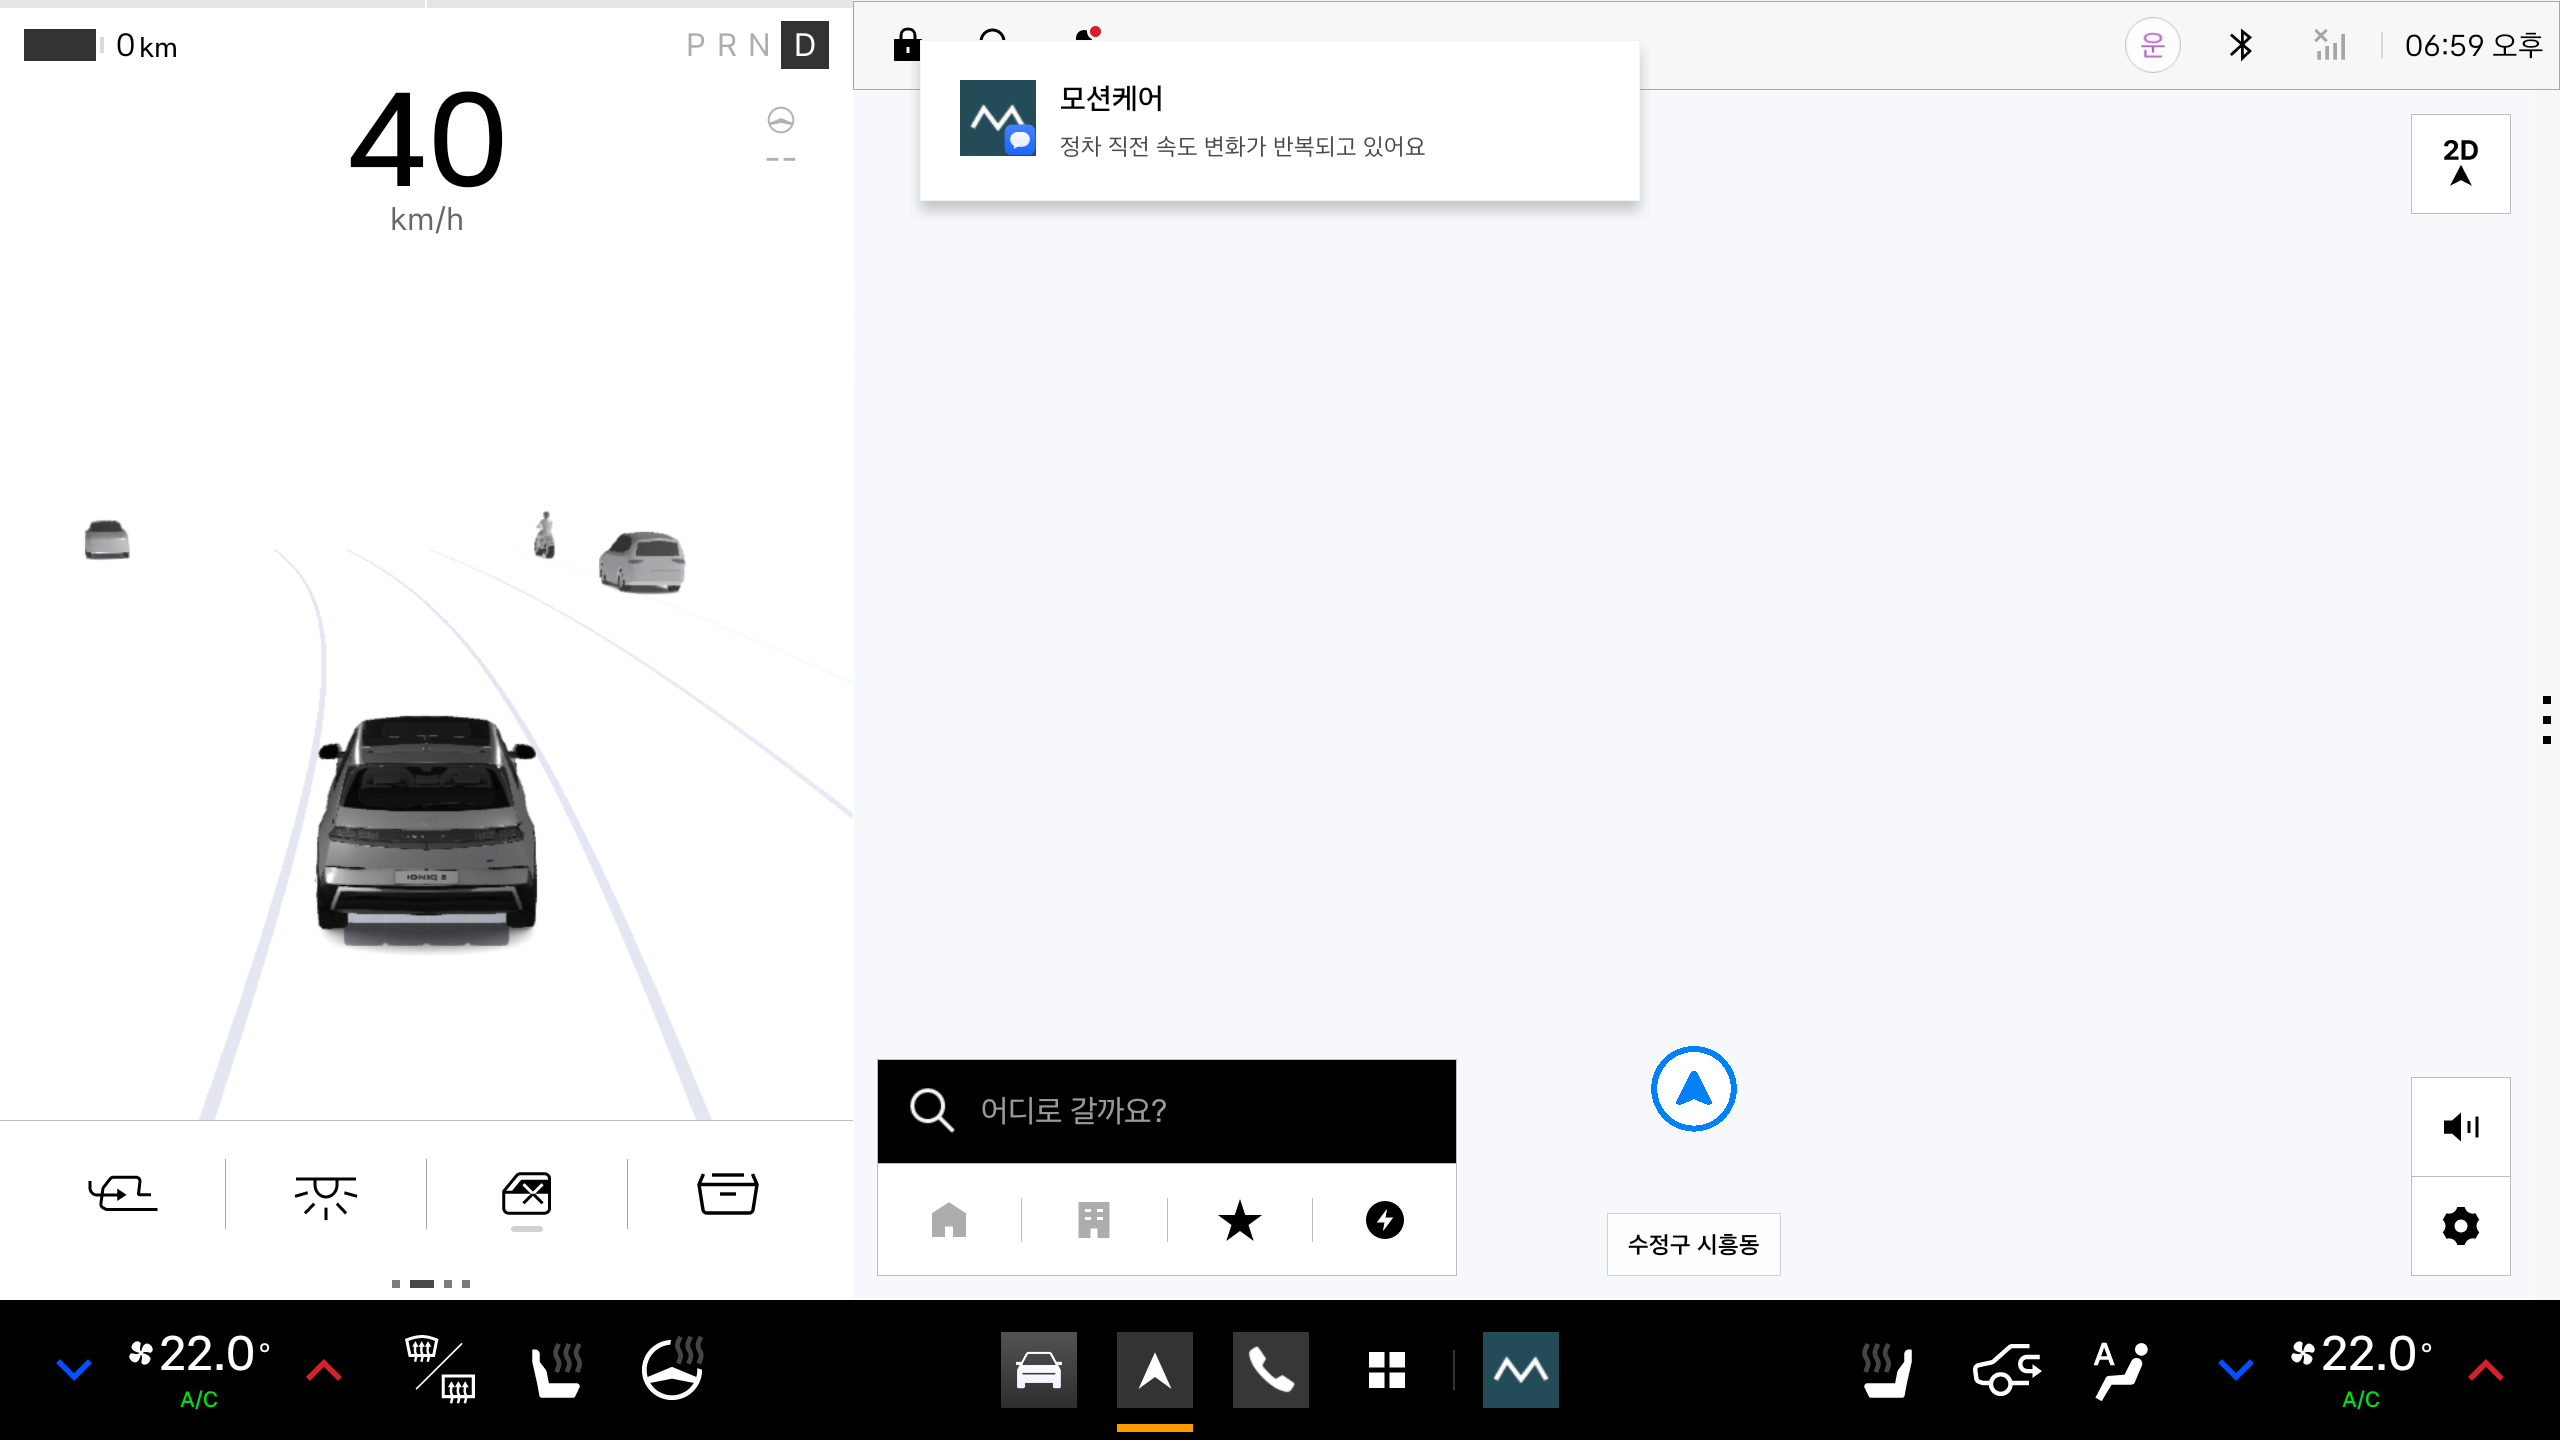
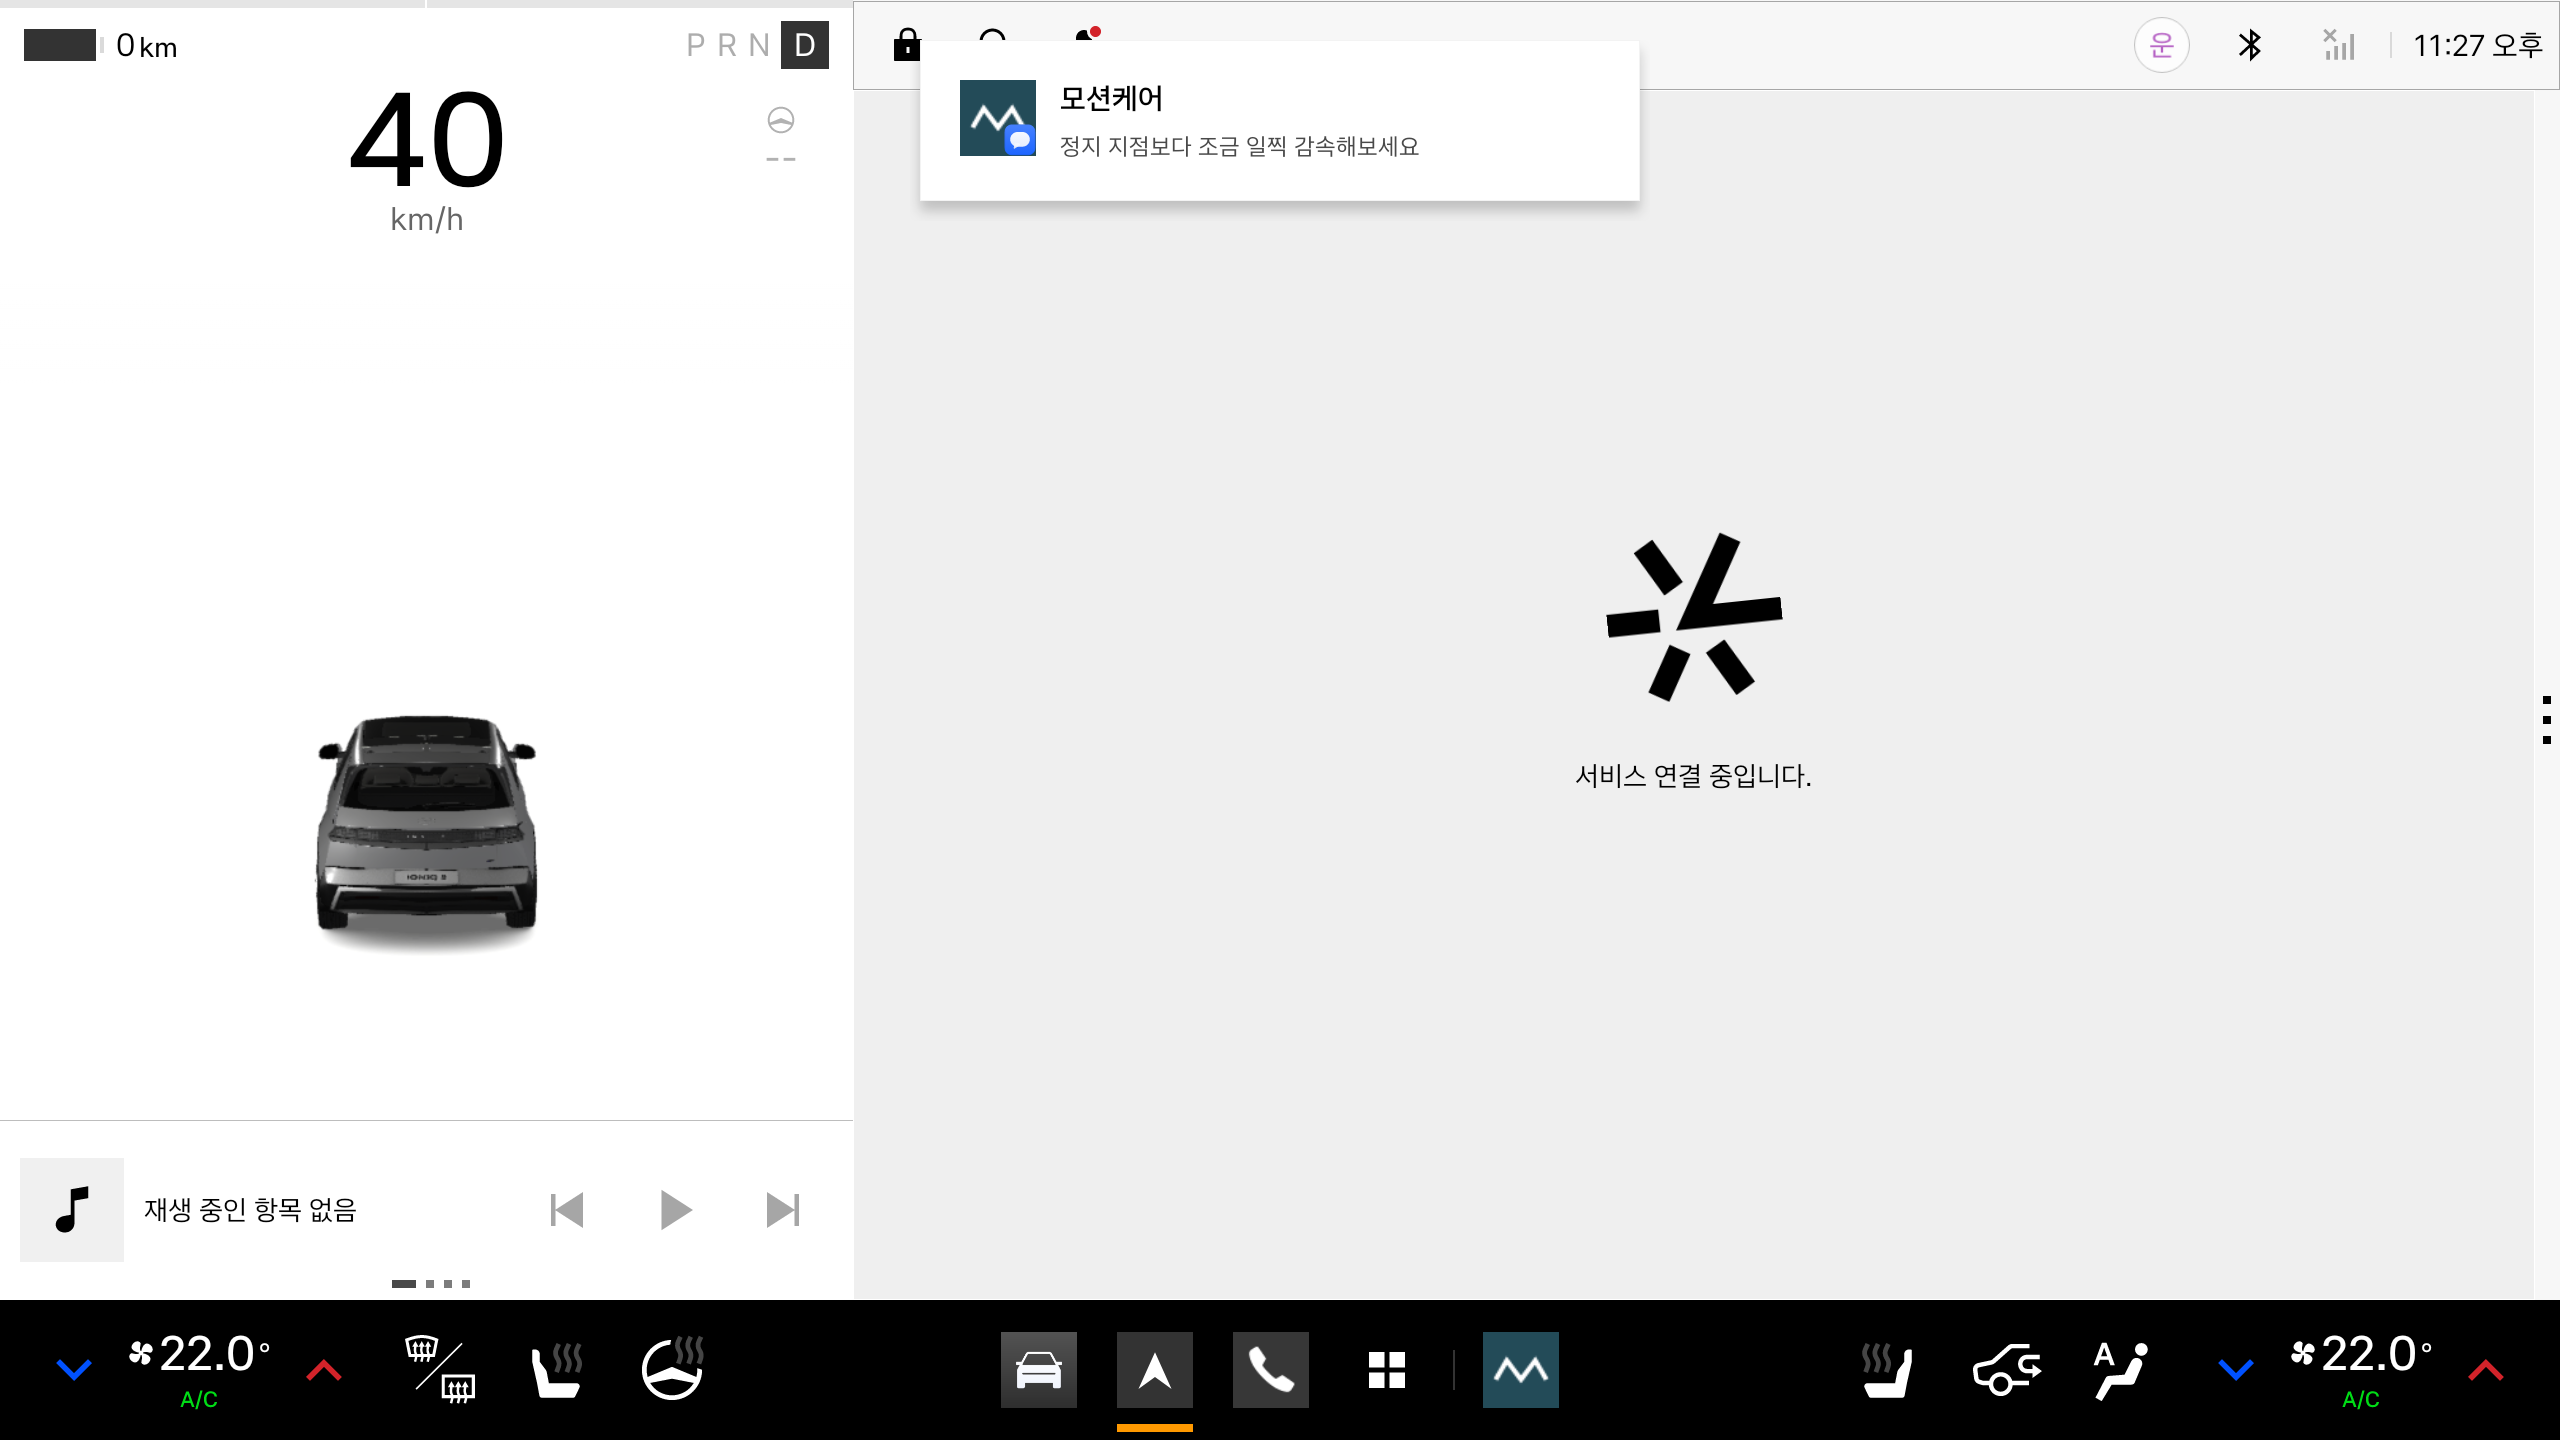
feat: 주행 중 카드를 데이터 기반 권장 문구로 변경 (#8)

diff --git a/feature/driving/src/main/java/dev/motioncare/feature/driving/guidance/GuidanceCards.kt b/feature/driving/src/main/java/dev/motioncare/feature/driving/guidance/GuidanceCards.kt
@@ -23,13 +23,13 @@ private const val NOTIFICATION_ID = 2
 // The system shows the card for about 9 s. Removing it soon after keeps old notes out of the bell.
 private const val CARD_LIFETIME_MS = 15_000L
 
-/** What was observed, not what to do. See docs/guidance-card.md for why cards give no instructions. */
+/** One recommended action for the pattern that repeated. Sources and limits are in docs/guidance-card.md. */
 internal fun guidanceCopy(pattern: DrivingPattern): String = when (pattern) {
-    DrivingPattern.RAPID_START -> "출발 직후 속도 변화가 반복되고 있어요"
-    DrivingPattern.HARD_STOP -> "정차 직전 속도 변화가 반복되고 있어요"
-    DrivingPattern.REPEATED_SPEED_CHANGE -> "가속과 감속이 반복되고 있어요"
-    DrivingPattern.FAST_TURN -> "회전 구간의 좌우 움직임이 반복되고 있어요"
-    DrivingPattern.REPEATED_SWAY -> "좌우 움직임이 반복되고 있어요"
+    DrivingPattern.RAPID_START -> "출발 후 몇 초 동안 천천히 속도를 높여보세요"
+    DrivingPattern.HARD_STOP -> "정지 지점보다 조금 일찍 감속해보세요"
+    DrivingPattern.REPEATED_SPEED_CHANGE -> "앞차와의 간격을 확보해 속도 변화를 줄여보세요"
+    DrivingPattern.FAST_TURN -> "커브에 진입하기 전에 미리 속도를 줄여보세요"
+    DrivingPattern.REPEATED_SWAY -> "핸들을 조금 더 부드럽게 돌려보세요"
 }
 
 /**

diff --git a/feature/driving/src/test/java/dev/motioncare/feature/driving/guidance/GuidanceCopyTest.kt b/feature/driving/src/test/java/dev/motioncare/feature/driving/guidance/GuidanceCopyTest.kt
@@ -20,11 +20,25 @@ class GuidanceCopyTest {
         assertEquals(copies.size, copies.toSet().size)
     }
 
-    @Test fun `cards say what was observed and never give orders or medical claims`() {
+    @Test fun `each card recommends an action for the pattern that repeated`() {
+        val subject = mapOf(
+            DrivingPattern.RAPID_START to "출발",
+            DrivingPattern.HARD_STOP to "정지",
+            DrivingPattern.REPEATED_SPEED_CHANGE to "앞차",
+            DrivingPattern.FAST_TURN to "커브",
+            DrivingPattern.REPEATED_SWAY to "핸들",
+        )
         DrivingPattern.entries.forEach { pattern ->
             val copy = guidanceCopy(pattern)
-            assertTrue(copy, copy.endsWith("있어요"))
-            listOf("해보세요", "하세요", "멀미", "위험", "운전자", "습관").forEach { word ->
+            assertTrue(copy, copy.endsWith("보세요"))
+            assertTrue("$pattern says: $copy", subject.getValue(pattern) in copy)
+        }
+    }
+
+    @Test fun `cards never give orders or medical claims`() {
+        DrivingPattern.entries.forEach { pattern ->
+            val copy = guidanceCopy(pattern)
+            listOf("하세요", "마세요", "멀미", "위험", "운전자", "습관").forEach { word ->
                 assertFalse("$copy contains $word", word in copy)
             }
         }

diff --git a/docs/pleos-emulator/tools/recording_e2e.py b/docs/pleos-emulator/tools/recording_e2e.py
@@ -109,7 +109,7 @@ class CardWatch(threading.Thread):
             # Only the active list counts. Look for the text, not the channel: while the recording notification
             # is up the system keeps a group summary that carries the guidance channel after the card is gone.
             active = shell("dumpsys notification --noredact").split("mArchive=")[0]
-            found = re.search(r"android\.text=String \(([^)]*있어요)\)", active)
+            found = re.search(r"android\.text=String \(([^)]*보세요)\)", active)
             if found:
                 now = time.time()
                 if self.first is None:

diff --git a/docs/verification.md b/docs/verification.md
@@ -122,17 +122,18 @@ python3 scripts/dev.py verify --clean-home
 
 | 검사 | 결과 |
 | --- | --- |
-| 전체 모듈 host 테스트 | 133개, 실패·오류 0 |
+| 전체 모듈 host 테스트 | 134개, 실패·오류 0 |
 | 전체 Android 모듈 lint | 통과 |
 | Android UI 테스트 | 2개 통과 |
 | v1·v2·v3 DB 업그레이드 | Robolectric에서 기존 기록을 유지하고 안내 결과 저장 가능. v3 경로는 조건을 빼면 실패하는 것을 확인 |
 | 표시 실패 | 단위 테스트에서 `FAILED`로 기록되고 기록 저장은 계속되며, 다음 카드를 막지 않음 |
 | Pleos 에뮬레이터 종단 시험 | 내비 위 표시, 대기·생략 저장, 상세 표시, 약 15초 뒤 제거, 스위치 끄기와 유지 통과. [결과](pleos-emulator/README.md#앱의-안내-카드) |
-| 분석 도구와 앱의 판정 | 앞뒤 12건은 시각·값까지 일치. 좌우 2건은 패턴 일치 |
+| 권장 문구 5개 표시 | 40km/h 내비 위에서 모두 한 줄. 정차 직전 문구는 앱, 나머지 4개는 시험 앱으로 확인 |
+| 분석 도구와 앱의 판정 | 앞뒤 12건은 시각·값까지 일치. 좌우 2건은 패턴 일치. 문구 교체 전 측정이며 탐지 코드는 그 뒤 바뀌지 않음 |
 | 공개 주행 데이터 측정 | VED 3,255시간에 규칙 적용. [결과](guidance-card.md#빈도-측정) |
 | 의존성 | `feature:driving`에 `core-ktx` 직접 선언. lockfile 변경 없음 |
 
-실차 신호와 시점, App Market의 `CATEGORY_MESSAGE` 승인, 소리, 경로 안내 화면을 가리는지, 카드의 효과는 확인하지 못했습니다. 알림 권한을 거부했을 때의 `FAILED`는 단위 테스트로만 확인했습니다. 실제 화면에서 본 문구는 5개 중 정차 직전 문구 하나입니다.
+실차 신호와 시점, App Market의 `CATEGORY_MESSAGE` 승인, 소리, 경로 안내 화면을 가리는지, 권장 문구의 안전성과 효과는 확인하지 못했습니다. 알림 권한을 거부했을 때의 `FAILED`는 단위 테스트로만 확인했습니다. 앱이 실제로 띄운 문구는 5개 중 정차 직전 문구 하나입니다.
 
 ## 아직 별도 검증이 필요한 환경
 

diff --git a/docs/design.md b/docs/design.md
@@ -152,7 +152,7 @@ Codex CLI로 생성한 이미지입니다. 시안 안에서는 `/_blob/<ID>`로 
 - **표시:** 앱 창 왼쪽 위에 약 9초 보입니다. 문구는 두 줄(줄당 약 30자)을 넘으면 잘리므로 짧게 씁니다.
 - **연속 안내:** 쌓이지 않고 마지막 안내만 보이므로 앱에서 간격을 조절합니다. 규칙과 문구는 [안내 카드의 근거](guidance-card.md)에 있습니다.
 - **끄기:** 시작 화면의 "주행 중 안내" 스위치로 끕니다. 차량 입력이 있을 때만 보입니다. ([스위치 화면](pleos-emulator/shots/86_guidance_switch.png))
-- **문구:** 차의 움직임만 전하고 행동을 지시하지 않습니다. 행동 조언은 출발 전과 종료 후 화면에 둡니다.
+- **문구:** 탐지한 패턴에 맞는 행동 하나를 "~해보세요"로 권합니다. 핵심 조언은 출발 전과 종료 후 화면에도 넣습니다.
 - **탭 동작:** 넣지 않습니다. `distractionOptimized`를 선언하지 않으면 주행 중 앱 화면이 가려지기 때문입니다.
 - **심사 위험:** 이 방식을 직접 금지한 문구는 찾지 못했지만, Pleos 용어집은 이 알림을 통화·메시지·내비처럼 즉시 인지가 필요한 알림으로 정의합니다. App Market 심사 통과 여부를 알 수 없어 운영사무국에 문의합니다.
 - **막힐 때 대안:** 우리 앱이 보일 때는 앱 안 배너, 내비가 보일 때는 알림 센터로 보냅니다. 전환하기 쉽도록 안내 판단과 표시 코드를 분리합니다.

diff --git a/docs/testing.md b/docs/testing.md
@@ -52,7 +52,7 @@ python3 scripts/dev.py verify --clean-home
 | core/model/src/test | 단위·없음·원본/시각·관찰 값 불변조건 |
 | data/profile/src/test | 프로필 재시작 유지·순서·이름 검증 |
 | data/trip/src/test | 세션 중복/복구/실패, 차량 속도·조향 저장, 조향 실패 시 속도 기록 유지, 앞뒤·좌우 패턴 탐지, 안내 표시·대기·생략 규칙과 ON/OFF 저장, SQLite 재연결·버전 충돌·이전 버전 업그레이드 |
-| feature/driving/src/test | 초기화 재시도·명령 중복 방지·오류 상태, 안내 문구의 길이와 금지 표현 |
+| feature/driving/src/test | 초기화 재시도·명령 중복 방지·오류 상태, 안내 문구의 길이, 패턴별 권장 형식, 금지 표현 |
 | feature/history/src/test | 늦은 이전 조회·실패/없음/재시도, 프로필 로딩·오류·재시도, 패턴 요약과 조향·주행 중 안내 요약 문구 |
 | app/src/androidTest | 샘플 입력·Activity 재생성·완료·평가 복귀, 프로필 화면 이동 |
 

diff --git a/docs/handoff.md b/docs/handoff.md
@@ -45,7 +45,7 @@
 - 알림 권한을 거부하면 `FAILED`로 기록만 남고 화면에 알리지 않습니다. 상세 화면에는 "주행 중 안내 없음"으로 보입니다.
 - 메시지 카드가 App Market에서 막히면 `GuidancePresenter` 구현을 앱 안 배너와 알림 센터로 바꿉니다.
 - 환경 안내를 추가하면 패턴 카드와의 우선순위를 정해야 합니다.
-- 카드는 관찰만 전합니다. 행동 조언은 출발 조언(기록 담당)에서 연결합니다.
+- 카드 문구는 최종 기획 §15의 기본 조언에서 가져와 `guidanceCopy`에 고정했습니다. 출발 조언(기록 담당)도 같은 표를 쓰면 표현이 어긋나지 않습니다.
 
 ## 운영사무국에 확인할 것
 
